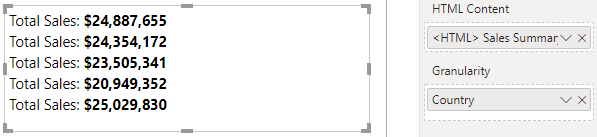
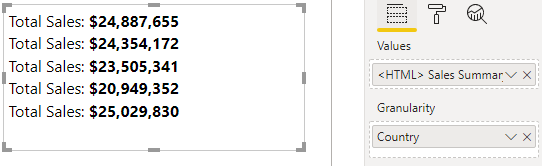
1.0.1 Changes (prior to initial marketplace publish):  - Visual renamed to HTML Content  - Removed content separation property and functionality in readiness for more advanced features  - HTML Content data role renamed to Values

diff --git a/src/DomainUtils.ts b/src/DomainUtils.ts
@@ -37,27 +37,6 @@
             }
 
         /**
-         * If the user wishes to separate grouping elements with something else, handle and append accordingly.
-         * 
-         * @param type              - The separation type to apply to elements.
-         * @param dataElements      - The elements to analyse and process.
-         */
-            export function resolveGroupSeparation(
-                type: string,
-                dataElements: d3.Selection<any, any, any, any>
-            ) {
-                // Remove the final element, as it's not required
-                    let eligible = dataElements.filter((e, i) => i < dataElements.data().length - 1);
-                // Add the necessary separation to each eligible group
-                    switch (type) {
-                        case 'hr': {
-                            eligible.append('hr');
-                            break;
-                        }
-                    }
-            }
-
-        /**
          * As we want to display different types of element for each entry/grouping, we will clear down the 
          * existing children and rebuild with our desired element for handling raw vs. rendered HTML.
          * 

diff --git a/src/visual.ts b/src/visual.ts
@@ -38,7 +38,7 @@
             private landingContainer: d3.Selection<HTMLDivElement, any, any, any>;
         // Used for handling issues in the visual
             private statusContainer: d3.Selection<HTMLDivElement, any, any, any>;
-        // USed for HTML content from data model
+        // Used for HTML content from data model
             private contentContainer: d3.Selection<HTMLDivElement, any, any, any>;
         // Visual host services
             private host: IVisualHost;
@@ -122,7 +122,6 @@
                                     viewModel.htmlEntries
                                 );
                             DomainUtils.resolveHtmlGroupElement(dataElements, viewModel.contentFormatting.showRawHtml);
-                            DomainUtils.resolveGroupSeparation(viewModel.contentFormatting.separation, dataElements);
                             DomainUtils.resolveBodyStyling(this.container, {
                                 fontFamily: viewModel.contentFormatting.fontFamily,
                                 fontSize: viewModel.contentFormatting.fontSize,

diff --git a/src/VisualSettings.ts b/src/VisualSettings.ts
@@ -35,8 +35,6 @@ export class VisualSettings extends DataViewObjectsParser {
 }
 
 export class ContentFormattingSettings {
-    // Separate row data
-        public separation: string = VisualConstants.contentFormatting.separation;
     // Whether to render as HTML or show raw code
         public showRawHtml: boolean = VisualConstants.contentFormatting.showRawHtml;
     // Allow hyperlinks to be opened using the visual host

diff --git a/doc/usage.md b/doc/usage.md
@@ -6,7 +6,7 @@
 ---
 ## Getting Started
 
-To use the visual, you need to either create a column or measure in your data model that contains valid HTML. When this is added to the **HTML Content** data role, the visual will attempt to render the supplied HTML in the current row context.
+To use the visual, you need to either create a column or measure in your data model that contains valid HTML. When this is added to the **Values** data role, the visual will attempt to render the supplied HTML in the current row context.
 
 Let's work through this with an example. Consider the following data - I'm using the [Financial Sample workbook](https://docs.microsoft.com/en-us/power-bi/create-reports/sample-financial-download) data model:
 
@@ -23,11 +23,11 @@ Let's say we want to represent the country with its flag using the [Country Flag
  ```
 Country Flag HTML = "<img src='https://www.countryflags.io/" & Financials[Country Code] & "/flat/24.png'>"
  ```
-We can now add this to the HTML Display visual's **HTML Content** data role and we'll see a flag for each value of `Financials[Country Code]`, e.g.:
+We can now add this to the HTML Display visual's **Values** data role and we'll see a flag for each value of `Financials[Country Code]`, e.g.:
 
 ![html_country_flag_column.png](./assets/png/html_country_flag_column.png "A HTML column that generates a flag from a remote API, rendered in our visual.")
 
-> Note that while conventional HTML code snippets might use double quotes (`"`) for attribute values, these need to be escaped in DAX by using `""` for every occurrence of a double quote character. This can be tricky to keep track of in more advanced use cases.
+> Note that while conventional HTML might use double quotes (`"`) for attribute values, these need to be escaped in DAX by using `""` for every occurrence of a double quote character. This can be tricky to keep track of in more advanced use cases.
 >
 > Because single quotes are valid in the W3C HTML specification, I'll be using this format going forward to keep my example DAX code a bit easier to manage. If you do want to use double quotes, the above could also be written as:
 >
@@ -45,13 +45,13 @@ Similar to the above, we could create a measure to "narrate" this as follows:
 
 > Note that the measure doesn't have to have the `<HTML>` prefix. As it's good practice to try and prefix measure names  with units to denote what type of value they return, like a `$`, `#` etc. This is my preferred prefix to denote that the measure returns HTML output when inspecting it in the *Fields* list. 
 
-Like before, we can add this to the visual's **HTML Content** data role and this will result in the following output:
+Like before, we can add this to the visual's **Values** data role and this will result in the following output:
 
 ![html_simple_measure.png](./assets/png/html_simple_measure.png "Using a measure to create another, HTML-based one.")
 
 ### Providing Additional Row Context
 
-As the **HTML Content** data role contains the HTML we want to render and our measure has no additional context, we just get the total.
+As the **Values** data role contains the HTML we want to render and our measure has no additional context, we just get the total.
 
 If we want to split our measure for the distinct `[Country  Code]`, we can add our column to the **Granularity** data role and this will create the necessary context in the visual, e.g.:
 
@@ -79,19 +79,11 @@ Any value that matches the desired grain can be added - in the example above, un
 
 You can add multiple fields to **Granularity** to produce the necessary row context if your measure requires a further level of uniqueness.
 
-## Value Separation
-
-The visual will flow HTML produced for each value together, but you can set the **Value Separation Method** property in the **Content Formatting** menu to separate them with a horizontal rule or `<hr/>` element. The last value will not include the separator, e.g.:
-
-![html_separation_horizonal_rule.png](./assets/png/html_separation_horizonal_rule.png "Separation of discrete values with a <hr/> (horizontal rule) element.")
-
 ## Raw HTML
 
 The **Show Raw HTML** property can be used to debug your generated HTML output, e.g.:
 
 ![html_raw_view.png](./assets/png/html_raw_view.png "Viewing raw generated HTML.")
-
-Note that the **Value Separation Method** can also be used to better distiguish generated HTML for each value.
 
 ## Handling Hyperlinks to External URLs
 

diff --git a/README.md b/README.md
@@ -1,4 +1,4 @@
-# HTML Display for Power BI
+# HTML Content for Power BI
 
 By Daniel Marsh-Patrick
 
@@ -24,7 +24,6 @@ There are some worked examples of how to approach this visual if you haven't use
 There are some additional features that the original doesn't have:
 
 * You can use HTML generated from measures.
-* You can opt to separate data rows with a `<hr/>` (horizontal rule) element if multiple values are passed in.
 * You can opt to see the raw HTML rather than rendered HTML for debugging purposes.
 * By default, hyperlinks wouldn't work due to custom visual limitations, but in this version you can opt to delegate URL requests to Power BI, which will provide the user with a prompt and request their approval. Please note that if in the Service, URLs will open in a new tab. This is how URLs need to work inside custom visuals.
 
